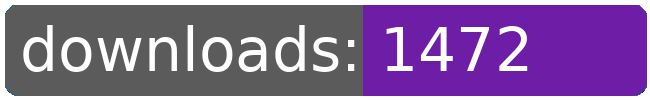
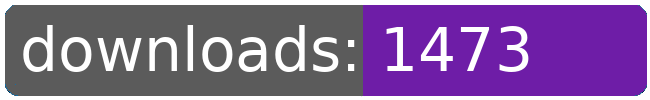
dl log written

Changed region(s): [[0.7692, 0.42, 0.8308, 0.72], [0.7692, 0.27, 0.8, 0.36], [0.8, 0.36, 0.8308, 0.39]]

diff --git a/README.md b/README.md
@@ -21,8 +21,8 @@
 		<td>1405</td>
 		<td>1430</td>
 		<td>1457</td>
-		<td>1472</td>
-		<td>+ 15</td>
+		<td>1473</td>
+		<td>+ 16</td>
 	</tr>
 	<tr>
 		<td>aberrant.kahet.outfitter</td>
@@ -252,8 +252,8 @@
 		<td></td>
 		<td></td>
 		<td></td>
-		<td>20092</td>
-		<td>77</td>
+		<td>20093</td>
+		<td>78</td>
 	</tr>
 </table>
 </sub></sup>
@@ -311,8 +311,8 @@
 		<td>1405</td>
 		<td>1430</td>
 		<td>1457</td>
-		<td>1472</td>
-		<td>+ 15</td>
+		<td>1473</td>
+		<td>+ 16</td>
 	</tr>
 	<tr>
 		<td>purchase.bactrian</td>
@@ -509,8 +509,8 @@
 		<td></td>
 		<td></td>
 		<td></td>
-		<td>20092</td>
-		<td>77</td>
+		<td>20093</td>
+		<td>78</td>
 	</tr>
 </table>
 </sub></sup>
